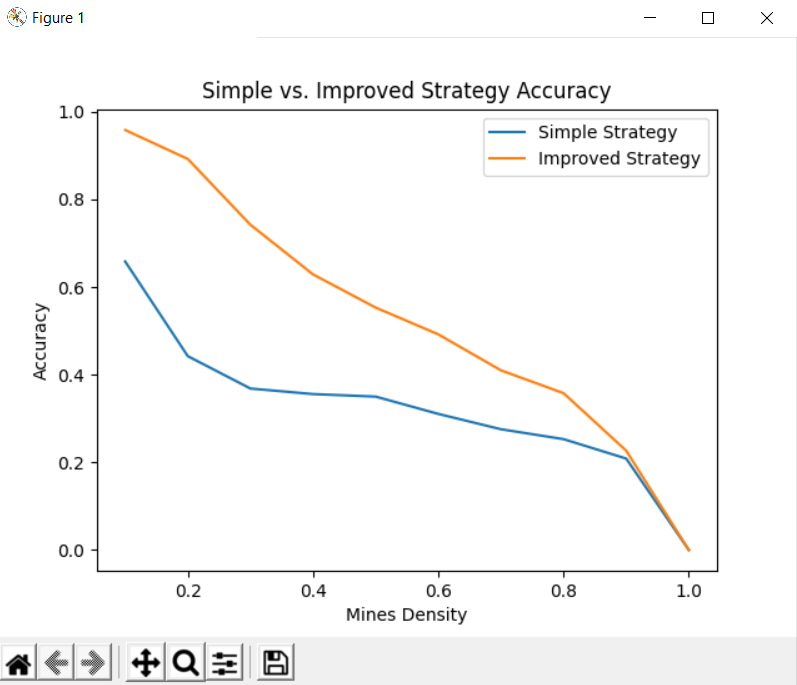
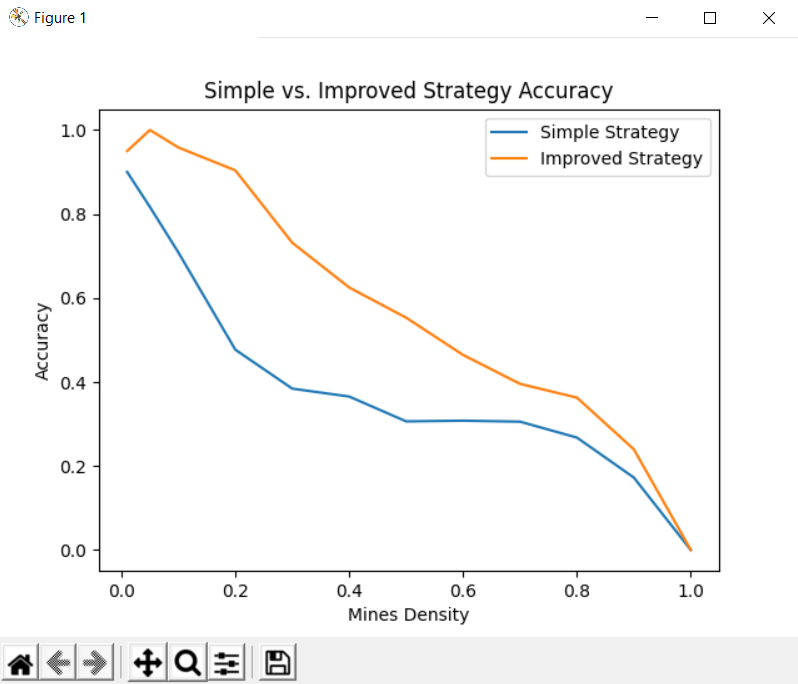
added visualization for improved

diff --git a/agents/improvedAgent.py b/agents/improvedAgent.py
@@ -1,5 +1,5 @@
 import numpy as np
-from .MineVisualization import game
+from .MineVisualizationImproved import game
 import random 
 import copy
 
@@ -43,6 +43,8 @@ class ImprovedAgent():
         self.gridSize = env.gridSize
 
         self.movesTaken = set()
+        self.hitMines = set()
+
 
         self.mines = set()
         self.safes = set()
@@ -66,10 +68,10 @@ class ImprovedAgent():
 
         while(gameRunning):
 
-            move = self.openSafeCell()
-            if move is None:
-                move = self.openRandomCell()
-                if move is None:
+            nextCellToOpen = self.openSafeCell()
+            if nextCellToOpen is None:
+                nextCellToOpen = self.openRandomCell()
+                if nextCellToOpen is None:
 
                         flags = self.mines.copy()
                         gameRunning = False
@@ -78,10 +80,14 @@ class ImprovedAgent():
 
                         print("Mines Hit: " + str(self.minesHit))
                         print("Moves Made: " + str(self.movesTaken))
-                        print("Length of Moves Made: " + str(len(self.movesTaken)))
+                        print("Length of Moves Made: " + str(len(self.movesVisualization)))
                         print("Mines Identified: " + str(len(self.mines)))
 
-                        #game(len(self.env.clues), self.env.clues,  self.env.clues, self.movesVisualization)
+                        for cell in self.hitMines:
+                            print(cell)
+
+
+                        game(len(self.env.clues), self.env.clues,  self.hitMines, self.movesVisualization)
 
                         print("No moves left")
 
@@ -91,28 +97,30 @@ class ImprovedAgent():
             else:
                 print("Opening a safe cell.")
 
-            x = move[0]
-            y = move[1]
+            x = nextCellToOpen[0]
+            y = nextCellToOpen[1]
 
-            clue = self.env.open(move[0],move[1])
+            clue = self.env.open(nextCellToOpen[0],nextCellToOpen[1])
 
             self.movesTaken.add((x,y))
+
 
             if(clue == -1):
                 self.minesHit += 1
                 self.markAsMine((x,y))
+                self.hitMines.add((x,y))
 
             else:
-                self.makeEquation(move, clue)
+                self.makeEquation(nextCellToOpen, clue)
 
 
     def openSafeCell(self):
-        for i in self.safes - self.movesTaken:
-            return i
+        for cell in self.safes - self.movesTaken:
+            return cell
         return None
 
     def openRandomCell(self):
-        
+       
         for cell in self.mines:
             if(cell in self.movesAvaliable):
                 self.movesAvaliable.remove(cell)
@@ -128,6 +136,10 @@ class ImprovedAgent():
             return self.movesAvaliable[random.randrange(len(self.movesAvaliable))]
 
     def markAsMine(self, cell):
+
+        if(cell not in self.mines):
+            self.movesVisualization.append(cell)
+
         
         if(cell in self.movesAvaliable):
             self.movesAvaliable.remove(cell)
@@ -137,6 +149,11 @@ class ImprovedAgent():
             sentence.markAsMine(cell)
 
     def markAsSafe(self, cell):
+
+        if(cell not in self.safes):
+            self.movesVisualization.append(cell)
+        
+
         self.safes.add(cell)
         for sentence in self.knowledgeBase:
             sentence.markAsSafe(cell)
@@ -152,9 +169,6 @@ class ImprovedAgent():
     def makeEquation(self, cell, clue):
 
         self.markAsSafe(cell)
-        self.movesVisualization.append(cell)
-        if(cell in self.movesAvaliable):
-            self.movesAvaliable.remove(cell)
 
         neighbors = set()
         clue = copy.deepcopy(clue)
@@ -215,20 +229,20 @@ class ImprovedAgent():
 
     def makeInference(self):
 
-        # iterate through pairs of sentences
         for tempEquation1 in self.knowledgeBase:
             for tempEquation2 in self.knowledgeBase:
-                # check if sentence 1 is subset of sentence 2
+
+                #if one is a subset of the other variables, then we can deduce more information 
                 if tempEquation1.neighbors.issubset(tempEquation2.neighbors):
-                    new_cells = tempEquation2.neighbors - tempEquation1.neighbors
-                    new_count = tempEquation2.clue - tempEquation1.clue
-                    newEquation = ConstraintEquation(new_cells, new_count)
-                    mines = newEquation.getIdentifiedMines()
-                    safes = newEquation.getIdentifiedSafes()
-                    if mines:
-                        for mine in mines:
+                    newNeighbors = tempEquation2.neighbors - tempEquation1.neighbors
+                    newClueValue = tempEquation2.clue - tempEquation1.clue
+                    newEquation = ConstraintEquation(newNeighbors, newClueValue)
+                    tempMines = newEquation.getIdentifiedMines()
+                    tempSafes = newEquation.getIdentifiedSafes()
+                    if tempMines:
+                        for mine in tempMines:
                             self.markAsMine(mine)
 
-                    if safes:
-                        for safe in safes:
+                    if tempSafes:
+                        for safe in tempSafes:
                             self.markAsSafe(safe)

diff --git a/agents/MineVisualizationImproved.py b/agents/MineVisualizationImproved.py
@@ -1,0 +1,105 @@
+import pygame
+import time
+'''
+The pygame GUI that does not allow for user inputs
+**inputs:
+size = size of the grid
+grid_main = the main grid to check against
+grid = the grid to be updated and displayed
+moveOrder = the order of moves that the AI solved our maze with
+**returns:
+Nothing (just visuals)
+'''
+
+#Some colors
+BLACK = (0, 0, 0)
+WHITE = (255, 255, 255)
+RED = (255, 0, 0)
+GREY = (200,200,200)
+YELLOW = (255,255,0)
+
+#Set the Height and Width of our grid cells
+WINDOW_HEIGHT = 500
+WINDOW_WIDTH = 500
+
+
+def drawGrid():
+
+    for x in range(WINDOW_WIDTH):
+        for y in range(WINDOW_HEIGHT):
+            rect = pygame.Rect(x*BLOCK_SIZE, y*BLOCK_SIZE,
+                               BLOCK_SIZE, BLOCK_SIZE)
+            pygame.draw.rect(SCREEN, WHITE, rect, 1)
+
+def game(size, grid_main, minesHit, moveOrder):
+
+
+    global SCREEN, CLOCK, SIZE, BLOCK_SIZE
+    pygame.init()
+    SCREEN = pygame.display.set_mode((WINDOW_HEIGHT, WINDOW_WIDTH))
+    CLOCK = pygame.time.Clock()
+    SIZE = size
+    BLOCK_SIZE = WINDOW_HEIGHT/SIZE
+    SCREEN.fill(BLACK)
+
+
+    #Set our font
+    font = pygame.font.SysFont("comicsansms", 20)
+
+    #load in our images
+    flag_img = pygame.image.load("Flag.png")
+    flag_img = pygame.transform.scale(flag_img, (int(BLOCK_SIZE),int(BLOCK_SIZE)))
+    bomb_img = pygame.image.load("bomb.png")
+    bomb_img = pygame.transform.scale(bomb_img, (int(BLOCK_SIZE),int(BLOCK_SIZE)))
+
+    update = []
+
+    while (len(moveOrder) > 0):
+
+        drawGrid()
+
+        coor = moveOrder.pop(0)
+
+        x, y = coor[0], coor[1]
+
+        if grid_main[x][y] == -1 and ( (x,y) not in minesHit ):
+
+            rect = pygame.Rect(x*BLOCK_SIZE, y*BLOCK_SIZE, BLOCK_SIZE, BLOCK_SIZE)
+            pygame.draw.rect(SCREEN, YELLOW, rect)
+
+            text = font.render("flag", True, (0,0,0))
+            update.append((flag_img, x*BLOCK_SIZE, y*BLOCK_SIZE))
+
+        elif grid_main[x][y] == -1:
+
+            rect = pygame.Rect(x*BLOCK_SIZE, y*BLOCK_SIZE, BLOCK_SIZE, BLOCK_SIZE)
+            pygame.draw.rect(SCREEN, RED, rect)
+
+            text = font.render("bomb", True, (0,0,0))
+            update.append((bomb_img, x*BLOCK_SIZE, y*BLOCK_SIZE))
+
+        else:
+
+            rect = pygame.Rect(x*BLOCK_SIZE, y*BLOCK_SIZE, BLOCK_SIZE, BLOCK_SIZE)
+            pygame.draw.rect(SCREEN, WHITE, rect)
+
+            text = font.render(str(int(grid_main[x][y])), True, (0,0,0))
+            update.append((text, x*BLOCK_SIZE, y*BLOCK_SIZE))
+
+
+        #for event in pygame.event.get():
+
+
+
+            #if event.type == pygame.QUIT:
+                #pygame.quit()
+                #sys.exit()
+
+            
+        for item in update:
+            SCREEN.blit(item[0], (item[1], item[2]))
+            pygame.display.flip()
+            
+
+        pygame.display.update()
+

diff --git a/main.py b/main.py
@@ -7,7 +7,7 @@ from enviornment.enviornment import Enviornment
 
 TRIALS_PER_DENSITY = 20
 BOARD_SIZE = 8
-x = [.1, .2, .3, .4, .5, .6, .7, .8, .9, 1]
+x = [.01, .05, .1, .2, .3, .4, .5, .6, .7, .8, .9, 1]
 
 
 
@@ -65,7 +65,15 @@ for density in x:
 # plt.title('Improved Strategy Accuracy')
 # plt.ylim([0, 1])
 # plt.show()
+print('x values')
+print(x) 
 
+print('simple agent')
+print(simpleAgentValues)
+
+
+print('improved agent')
+print(improvedAgentValues)
 
 # plotting the line 1 points 
 plt.plot(x, simpleAgentValues, label = "Simple Strategy")

diff --git a/agents/simpleAgent.py b/agents/simpleAgent.py
@@ -66,7 +66,7 @@ class SimpleAgent():
         print('Mine Hits = ', str(self.minesHit))
 
         print(self.movesTaken)
-        game(len(self.env.clues), self.env.clues, self.clues, self.movesTaken)
+        #(len(self.env.clues), self.env.clues, self.clues, self.movesTaken)
 
         return totalFlagged
 

diff --git a/testImproved.py b/testImproved.py
@@ -1,0 +1,10 @@
+import matplotlib.pyplot as plt
+
+from agents.improvedAgent import ImprovedAgent
+
+from enviornment.enviornment import Enviornment
+
+
+env = Enviornment(8,10)
+improved = ImprovedAgent(env)
+improved.execute()
